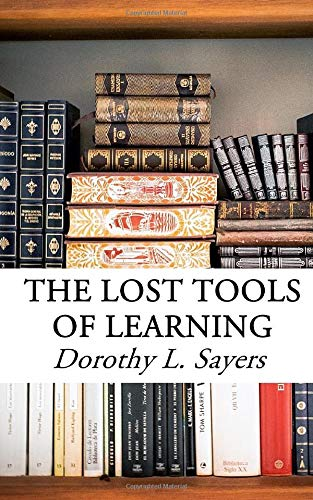
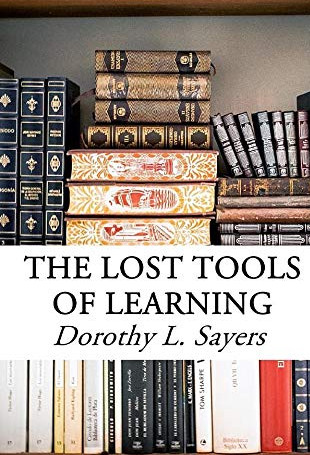
add croped photo to august2023 blog

diff --git a/src/pages/blogs/August2023.js b/src/pages/blogs/August2023.js
@@ -48,12 +48,14 @@ const August2023 = () => {
                     </li>
                 </ol>
                 <p>In conclusion, "The Lost Tools of Learning" by Dorothy Sayers continues to be an influential work that challenges traditional educational paradigms and offers a roadmap for a more effective and meaningful approach to learning. Its enduring relevance lies in its promotion of critical thinking, integration of knowledge, and the cultivation of well-rounded individuals. As educators, parents, and students continue to seek innovative ways to navigate the complex landscape of education, Sayers' essay remains a beacon of wisdom and a source of inspiration.</p>
+                <div style={{width: '100%', textAlign: 'center'}}>
+                                <a href='https://www.pccs.org/wp-content/uploads/2016/06/LostToolsOfLearning-DorothySayers.pdf' target='_blank' > Read <em>The Lost Tools of Learning</em></a>    
+                </div>
 
-                <a href='https://www.pccs.org/wp-content/uploads/2016/06/LostToolsOfLearning-DorothySayers.pdf' target='_blank' > Read <em>The Lost Tools of Learning</em></a>
 
-                {/* <figure className='py-3'>
+                <figure className='py-3'>
                     <img src={LostToolsCover} alt='Cover of The Lost Tools of Learning by Dorothy Sayers, an important work in the foundations and promotion of Classical Christian private schools.' className='blog-img col-md-8' />
-                </figure> */}
+                </figure>
                 <p>
                     Written by – Kris Hvattum – Board Member
                 </p>
